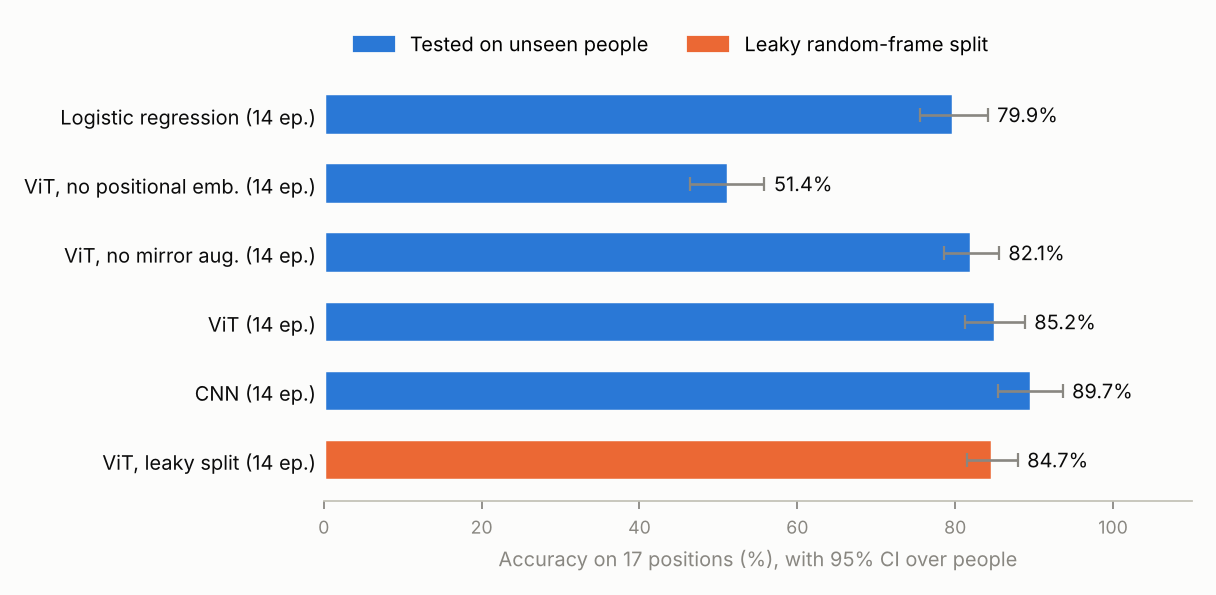
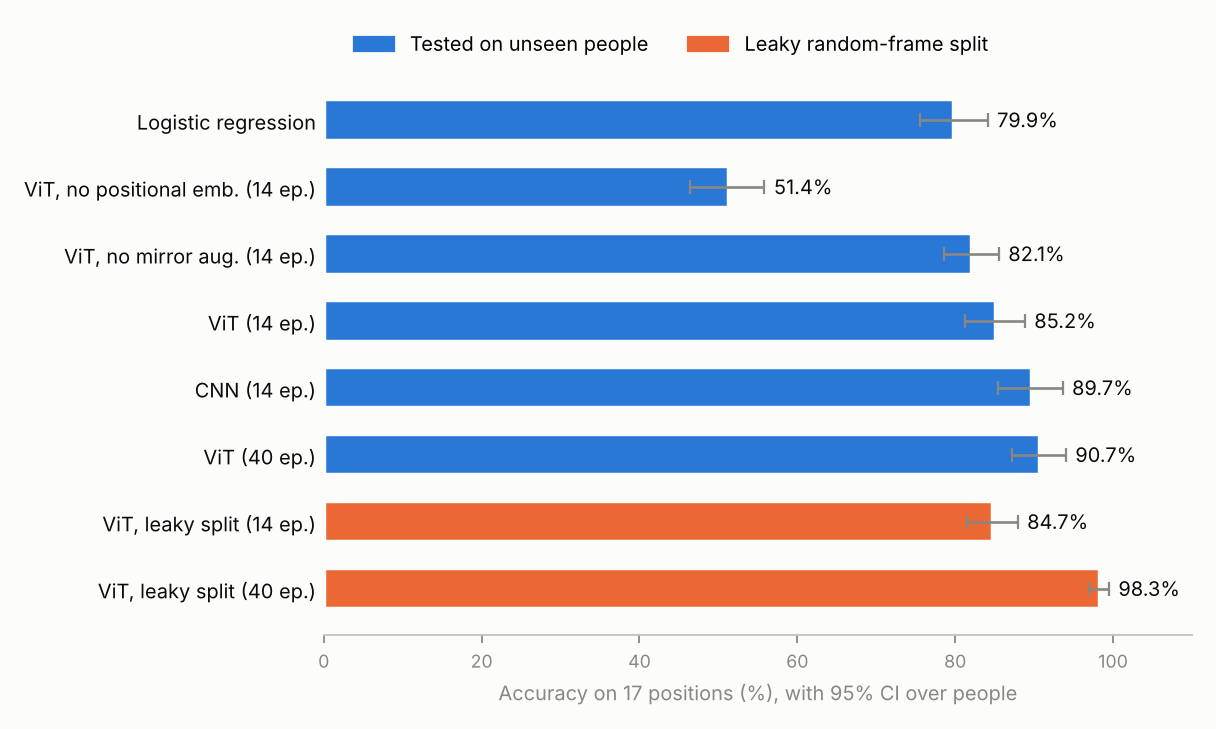
Add 40-epoch results, README results section and findings
ViT trained 40 epochs, 17 positions, unseen people: 90.7%
(95% CI 87.2-94.0), macro-F1 0.906, worst person 78.5%, ECE 0.069.
Same model on a leaky random-frame split: 98.3%, a 7.6-point
inflation, despite fewer training frames. At 14 epochs the model
was underfitting and showed no gap.

README gains a results table, figures and plain findings: CNN is
faster to train and level with the 40-epoch ViT within the
intervals, positional embedding is worth 34 points, mirror
augmentation 3.1, errors fall between neighbouring incline and
wedge angles, and attention rollout is close to uniform.
Design notes updated with the same, plus interview questions.

Claude-Session: https://claude.ai/code/session_016u5wLVqc7vjGp1wcH3qNHj

diff --git a/scripts/make_figures.py b/scripts/make_figures.py
@@ -28,7 +28,7 @@ def main(data_root):
     # Blue: tested on people the model never saw. Orange: leaky random-frame split.
     surface, ink, muted, axis = "#fcfcfb", "#0b0b0b", "#898781", "#c3c2b7"
     blue, orange = "#2a78d6", "#eb6834"
-    labels = {"logreg_position_loso": "Logistic regression (14 ep.)",
+    labels = {"logreg_position_loso": "Logistic regression",
               "vit_position_loso_no_posemb": "ViT, no positional emb. (14 ep.)",
               "vit_position_loso_no_mirror": "ViT, no mirror aug. (14 ep.)",
               "vit_position_loso": "ViT (14 ep.)",

diff --git a/README.md b/README.md
@@ -6,6 +6,48 @@ It is tested only on people it has never seen.
 One frame is a 64 x 32 grid of pressure sensors (2,048 readings, sampled once a second).
 The model predicts either **3 postures** (supine, right side, left side) or **all 17 recorded positions**.
 
+## Results
+
+Every row is tested on people the model never saw (leave one subject out), except the two leaky-split rows.
+Brackets are 95% intervals from bootstrapping people.
+
+| Model, 17 positions | Epochs | Accuracy | Macro-F1 | Worst person | ECE |
+|---|---|---|---|---|---|
+| **ViT** | 40 | **90.7%** (87.2–94.0) | 0.906 | 78.5% | 0.069 |
+| CNN, similar size | 14 | 89.7% (85.5–93.6) | 0.897 | 76.4% | 0.142 |
+| ViT | 14 | 85.2% (81.2–88.8) | 0.846 | 69.6% | 0.243 |
+| ViT, no mirror augmentation | 14 | 82.1% (78.6–85.5) | 0.818 | 69.7% | 0.167 |
+| Logistic regression | – | 79.9% (75.5–84.1) | 0.803 | 71.0% | 0.090 |
+| ViT, no positional embedding | 14 | 51.4% (46.4–55.8) | 0.492 | 37.2% | 0.125 |
+| *ViT, leaky random-frame split* | 40 | *98.3% (96.9–99.5)* | 0.983 | 93.4% | 0.092 |
+| *ViT, leaky random-frame split* | 14 | *84.7% (81.5–87.9)* | 0.834 | 70.7% | 0.333 |
+
+On **3 postures** the ViT (8 epochs) reaches **95.6%** (93.1–98.2) on unseen people, with 89.2% for the hardest person.
+
+![Accuracy by model](figures/accuracy_by_model.png)
+
+What the numbers say:
+
+- **A leaky split inflates accuracy by 7.6 points.** Once the model is trained to fit (40 epochs), a random frame split scores 98.3% while unseen people score 90.7%.
+  The leaky split even trained on fewer frames (3,926 against about 4,540 per fold), so the gain comes from having seen the test person, not from more data.
+  At 14 epochs the model was still underfitting and the gap did not appear (84.7% against 85.2%): leakage only inflates a model that can memorise.
+- **Where pressure sits on the mat matters most.** Removing the positional embedding drops accuracy from 85.2% to 51.4% at the same budget.
+- **Mirroring with a label swap adds 3.1 points** (82.1% to 85.2%).
+- **The CNN learns faster.** At 14 epochs it beats the ViT by 4.5 points, as expected from its built-in locality.
+  At 40 epochs the ViT reaches 90.7%, but the intervals overlap and the CNN was not retrained for 40 epochs, so this does not show the ViT is better.
+- **Errors fall between neighbouring angles.** The weakest classes are the bed inclines (positions 15–17: 30°, 45° and 60°), where position 16 is recalled 58% of the time and mostly mistaken for 15,
+  and the left-side wedges 6 and 7 (30° against 60°). These look alike on a pressure mat.
+- **Calibration improves with training.** At 14 epochs the ViT was underconfident (61% mean confidence at 85% accuracy, ECE 0.24). At 40 epochs ECE is 0.069.
+- **Attention rollout is close to uniform** (largest patch share 3.3% against 2.8% if spread evenly), so for this small model it does not single out body regions.
+
+The ViT was first run for 14 epochs. It reached only 87% accuracy on its own training frames, so it was also run for 40.
+That decision used training accuracy, not held-out accuracy, and both runs are reported.
+
+<p>
+  <img src="figures/confusion_17.png" width="48%" alt="Confusion matrix, 17 positions">
+  <img src="figures/attention_rollout.png" width="40%" alt="Attention rollout on a held-out person">
+</p>
+
 ## What is written by hand
 
 - **Multi-head self-attention** (`pvit/attention.py`): queries, keys and values, scaling by 1/sqrt(d_k), masking, softmax and merging heads.
@@ -14,7 +56,8 @@ The model predicts either **3 postures** (supine, right side, left side) or **al
 - **ViT**: a [CLS] token, learned positional embedding and 4 pre-LayerNorm blocks. About 0.14M parameters.
 - **Attention rollout** (Abnar & Zuidema, 2020), to see which body regions the model uses.
 
-Only `nn.Linear`, `nn.LayerNorm` and the optimiser come from PyTorch.
+PyTorch supplies only basic layers (`Linear`, `LayerNorm`, `GELU`, `Dropout`), softmax and the optimiser.
+No `nn.MultiheadAttention`, `nn.TransformerEncoder` or pretrained weights are used.
 
 ## How it is evaluated
 
@@ -25,7 +68,7 @@ Only `nn.Linear`, `nn.LayerNorm` and the optimiser come from PyTorch.
   Near-identical frames from one recording then fall on both sides of the split, and the gap from the subject-level number shows how much a leaky split inflates results.
 - **Baselines and ablations**: logistic regression on pooled pixels, a CNN with a similar parameter budget, a ViT without positional embedding, and a ViT without mirror augmentation.
 
-Hyperparameters are fixed in advance and never tuned on a held-out person.
+Hyperparameters are fixed in advance and never tuned on a held-out person. The one change, raising the ViT from 14 to 40 epochs, is explained under Results.
 
 ## Data handling
 
@@ -45,10 +88,11 @@ pytest -q                                   # attention parity, masking, patchif
 
 # Download Experiment I from PhysioNet (link below), then:
 python scripts/run_experiments.py --data <path>/experiment-i --ablations
+python scripts/run_experiments.py --data <path>/experiment-i --only vit_position_loso_40ep vit_position_random_frames_40ep
 python scripts/make_figures.py <path>/experiment-i
 ```
 
-Everything runs on a CPU. `--quick` runs a 2-person, 2-epoch smoke test.
+Everything runs on a CPU: about 2.5 hours on 2 cores for the full set. `--quick` runs a 2-person, 2-epoch smoke test.
 
 ## Layout
 

diff --git a/docs/DESIGN_NOTES.md b/docs/DESIGN_NOTES.md
@@ -31,6 +31,11 @@ land in both training and test data. The model can then memorise the person inst
 This is the same leakage problem as patient-level splits in sleep-apnea ECG studies.
 `vit_position_random_frames` runs exactly that leaky split, so the gap is measured, not assumed.
 
+**Measured:** at 40 epochs the leaky split scores 98.3% against 90.7% on unseen people, a 7.6-point inflation,
+even though the leaky split trains on fewer frames (3,926 against about 4,540). At 14 epochs there was no gap
+(84.7% against 85.2%), because the model was still underfitting: a model that cannot yet memorise its training
+frames gains nothing from seeing the test person. Leakage needs capacity to show up.
+
 Uncertainty: the 95% intervals come from a bootstrap that resamples **people**, not frames, because
 frames from one person are not independent.
 
@@ -60,6 +65,11 @@ frames from one person are not independent.
 
 - AdamW (weight decay 0.05), one-cycle learning rate, label smoothing 0.1, gradient clipping at 1.0.
 - Hyperparameters are fixed in advance and never tuned on the held-out person, which would leak the test set.
+- **One change after the first run:** at 14 epochs the ViT got only 87% of its own training frames right, so it was
+  underfitting. It was rerun for 40 epochs (99% training accuracy on the leaky split). The decision used training
+  accuracy only, and both runs are reported. Result on unseen people: 85.2% to 90.7%.
+- **Calibration.** At 14 epochs the model was *under*confident (mean confidence 61%, accuracy 85%, ECE 0.24).
+  Label smoothing, dropout, heavy augmentation and a short schedule all push confidence down. At 40 epochs ECE is 0.069.
 - **Augmentations grounded in the physics of the mat:**
   - Shift by up to 2 sensors, because people do not lie in exactly the same place.
   - Gain jitter of +/-15%, because sensors drift and calibration differs.
@@ -75,11 +85,31 @@ frames from one person are not independent.
   learn it, so on small data a CNN is a serious competitor. Report the comparison honestly, whichever way it goes.
 - **Logistic regression on pooled pixels.** A floor: how much does depth add at all?
 
+Results, 17 positions, unseen people, all at 14 epochs:
+
+| Variant | Accuracy |
+|---|---|
+| CNN | 89.7% |
+| ViT | 85.2% |
+| ViT, no mirror augmentation | 82.1% (mirror is worth 3.1 points) |
+| Logistic regression | 79.9% |
+| ViT, no positional embedding | 51.4% (location is worth 34 points) |
+
+The CNN wins at equal budget. With 40 epochs the ViT reaches 90.7%, but the CNN was not rerun for 40 epochs
+and the intervals overlap, so the honest claim is "comparable", not "better".
+
+Errors sit between neighbouring angles: bed inclines 15/16/17 (30°, 45°, 60°) and the left wedges 6/7 (30° vs 60°).
+Position 16 has the lowest recall (58%), mostly predicted as 15.
+
 ## Attention rollout
 
 `attention_rollout` multiplies the head-averaged attention matrices (plus the residual identity) through
 the layers to estimate how much each patch feeds into [CLS]. `figures/attention_rollout.png` shows it on a
-held-out person: which body regions the model relies on for each posture.
+held-out person, next to the mean pressure for each posture.
+
+**Result:** rollout is close to uniform (largest patch 3.3% against 2.8% if spread evenly). The residual identity
+added at every layer dominates in a 4-block model, so rollout does not single out body regions here. Say so in an
+interview rather than reading meaning into it. Last-layer attention or gradient-based maps would be the next thing to try.
 
 ## Questions an interviewer may ask
 
@@ -87,5 +117,11 @@ held-out person: which body regions the model relies on for each posture.
   uses. Then measure it against a CNN instead of assuming it wins.
 - *What does attention give you here?* Every patch can use every other patch in one layer, so the model can
   relate shoulder load to hip load directly. A CNN needs depth to connect distant regions.
+- *Why did the CNN beat your ViT?* At 14 epochs the ViT was underfitting. A CNN has locality built in, so it
+  learns faster on 13 people. Trained longer, the ViT reaches 90.7%, level with the CNN within the intervals.
+- *Why didn't the leaky split inflate results at first?* The 14-epoch model could not memorise its training
+  frames. Once it could (40 epochs), the random split read 98.3% against 90.7% on new people.
+- *Why is position 16 so hard?* It is a 45° bed incline between 30° and 60°. On the mat, neighbouring
+  inclines shift weight only slightly. Temporal context or a regression target for angle would help.
 - *What would you do with more data or time?* Use temporal attention across consecutive frames to track
   turning, train self-supervised on unlabelled nights, and calibrate per person with a few labelled frames.
